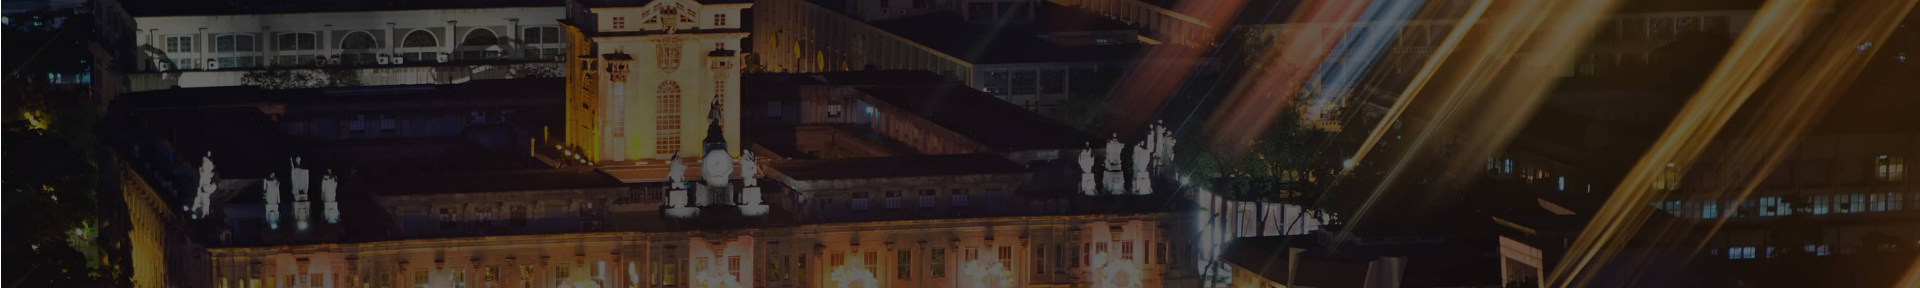
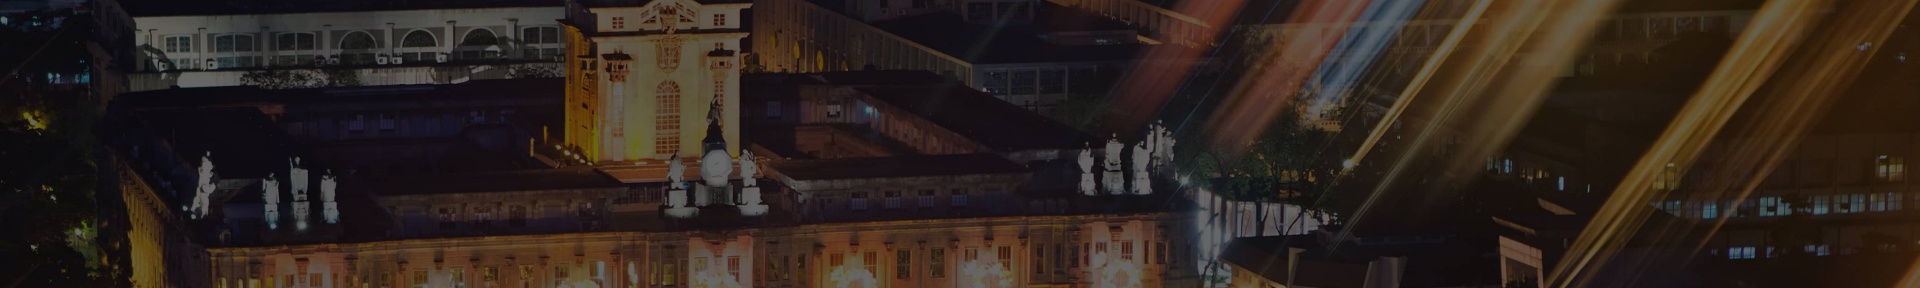
fixed profile header

Changed region(s): [[0.0625, 0.125, 0.0938, 0.1562]]

diff --git a/src/app/styles/userprofile/UserProfile.css b/src/app/styles/userprofile/UserProfile.css
@@ -13,7 +13,7 @@
 
 .profileheader {
   background-image: url("/images/userprofile/profile-header.png");
-  background-size: cover;
+  background-size: 100%;
   background-position: 50%;
   width: 100%;
   height: 12rem;
@@ -21,6 +21,8 @@
   display: flex;
   justify-content: center;
   align-items: center;
+  margin: 0;
+  padding: 0;
 }
 
 .profileheader h1 {
